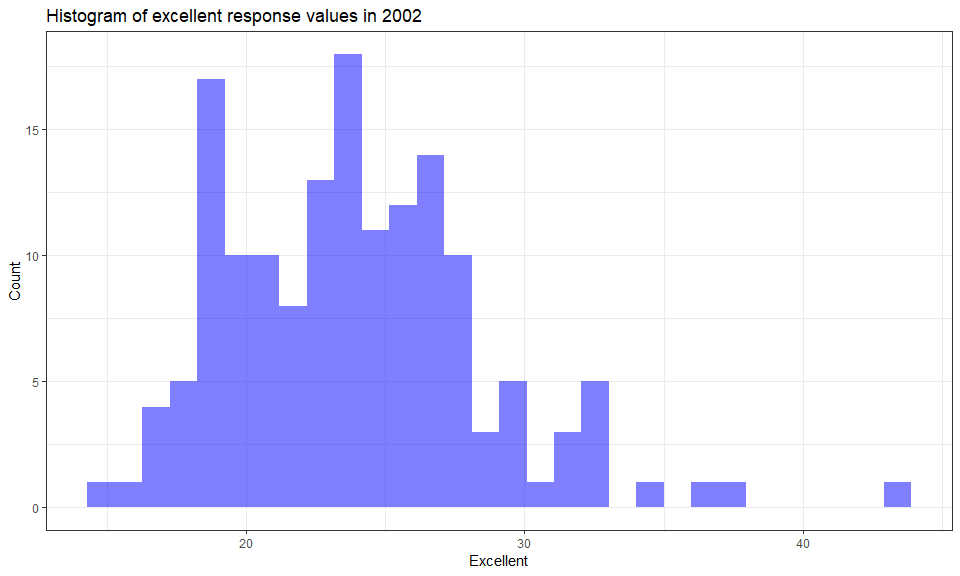
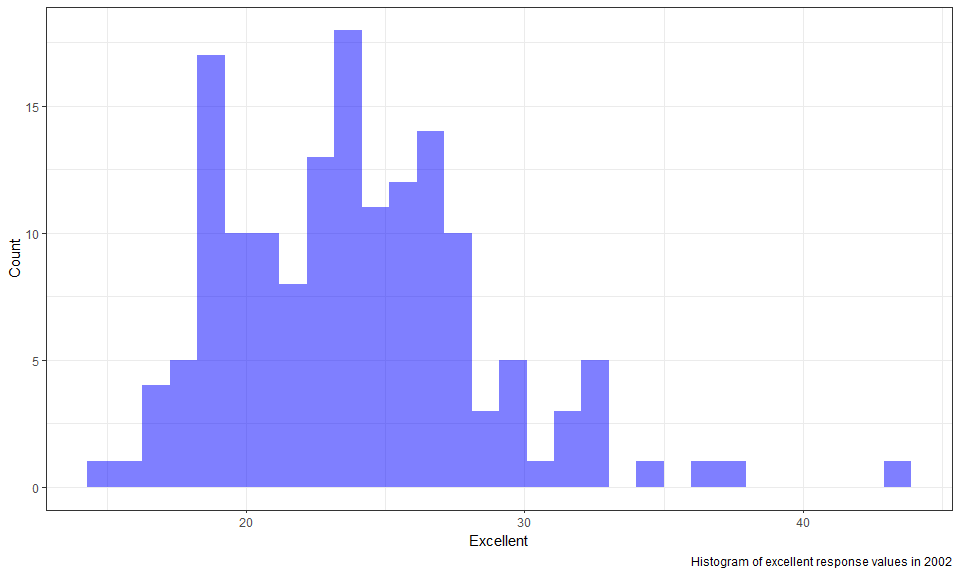
cleaned up legend for scatter plot, moved plot titles to captions, centered plots

diff --git a/p8105_hw2_ntw2117.md b/p8105_hw2_ntw2117.md
@@ -134,11 +134,11 @@ brfss_data %>%
   geom_histogram(fill = "blue", alpha = 0.5) + 
   labs(x = "Excellent", 
        y = "Count", 
-       title = "Histogram of excellent response values in 2002") + 
+       caption = "Histogram of excellent response values in 2002") + 
   theme_bw()
 ```
 
-<img src="p8105_hw2_ntw2117_files/figure-markdown_github/histogram-1.png" width="90%" />
+<img src="p8105_hw2_ntw2117_files/figure-markdown_github/histogram-1.png" width="90%" style="display: block; margin: auto;" />
 
 ``` r
 brfss_data %>% 
@@ -146,10 +146,14 @@ brfss_data %>%
   mutate(prop_excellent = excellent / (excellent + fair + good + poor + very_good)) %>% 
   ggplot(aes(x = year, y = prop_excellent, color = county)) + 
   geom_point(size = 4) + 
+  scale_color_discrete(
+    name = "Location", 
+    labels = c("New York County", "Queens County")
+  ) +
   labs(x = "Year", 
        y = "Proportion excellent", 
-       title = "Excellent response in New York and Queens County, 2002-2010") + 
+       caption = "Excellent response in New York and Queens County, 2002-2010") + 
   theme_bw()
 ```
 
-<img src="p8105_hw2_ntw2117_files/figure-markdown_github/scatter plot-1.png" width="90%" />
+<img src="p8105_hw2_ntw2117_files/figure-markdown_github/scatter plot-1.png" width="90%" style="display: block; margin: auto;" />
